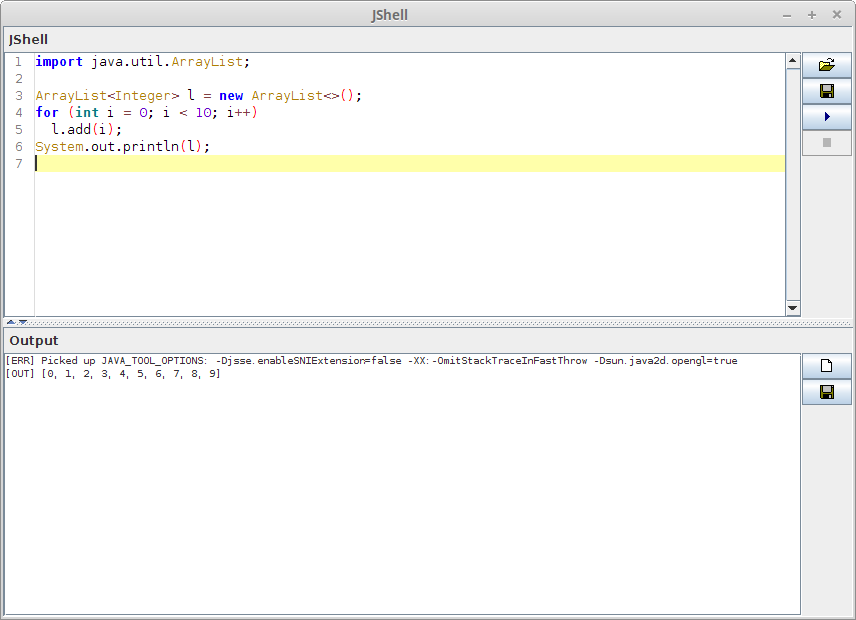
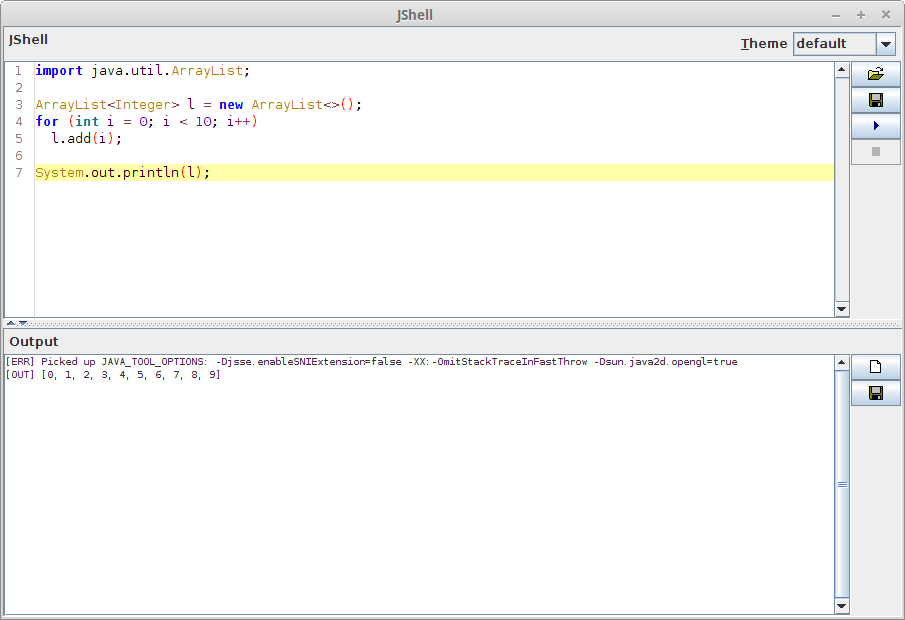
updated screenshots

Changed region(s): [[0.0, 0.0306, 1.0, 1.0], [0.4252, 0.0, 0.486, 0.0613]]

diff --git a/README.md b/README.md
@@ -94,6 +94,12 @@ Add the following dependency to your `pom.xml`:
     </dependency>
 ```
 
-## Screenshot
+## Screenshots
+
+Default theme:
 
 ![Screenshot of example script output](src/site/resources/example.png)
+
+Dark theme:
+
+![Screenshot of example script output](src/site/resources/example_dark.png)
